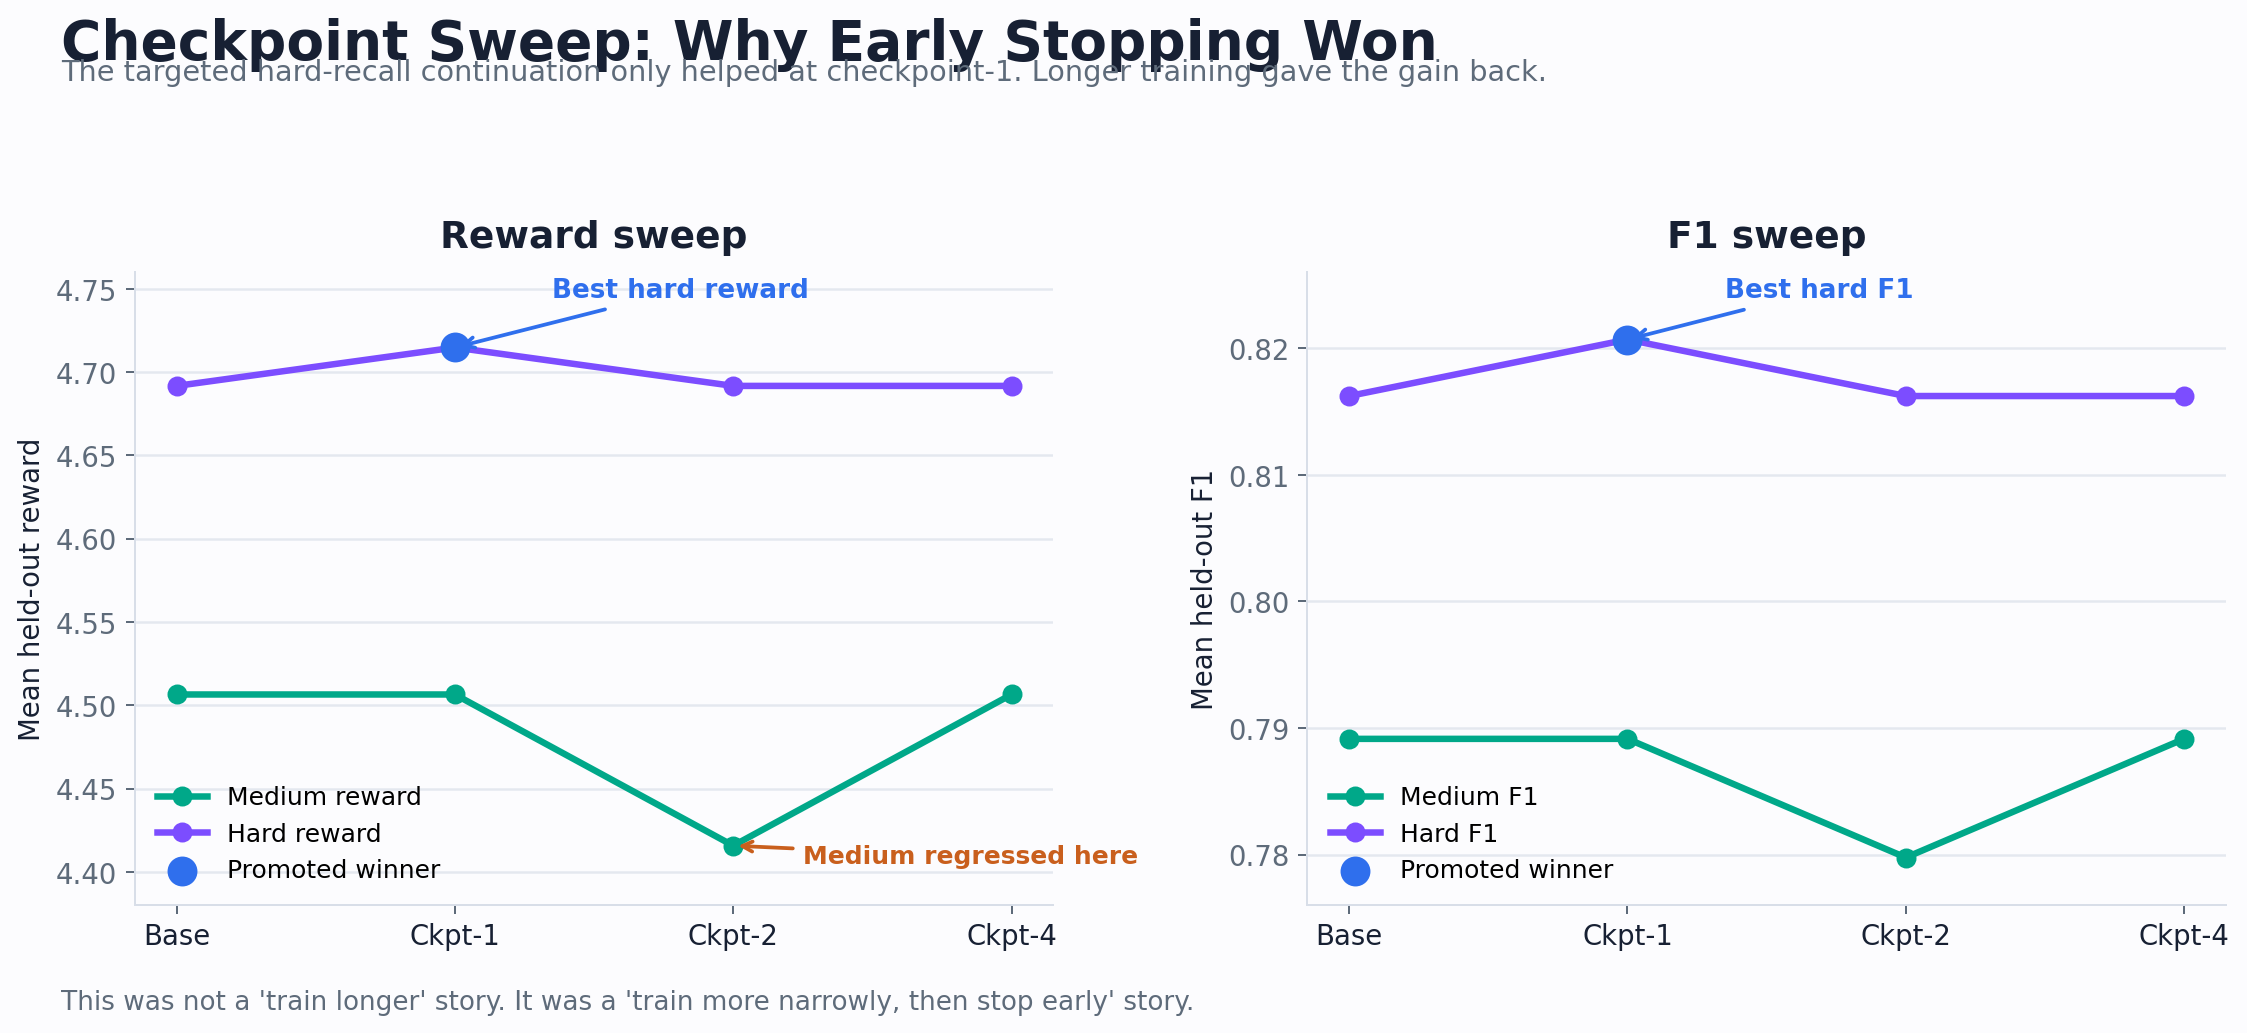
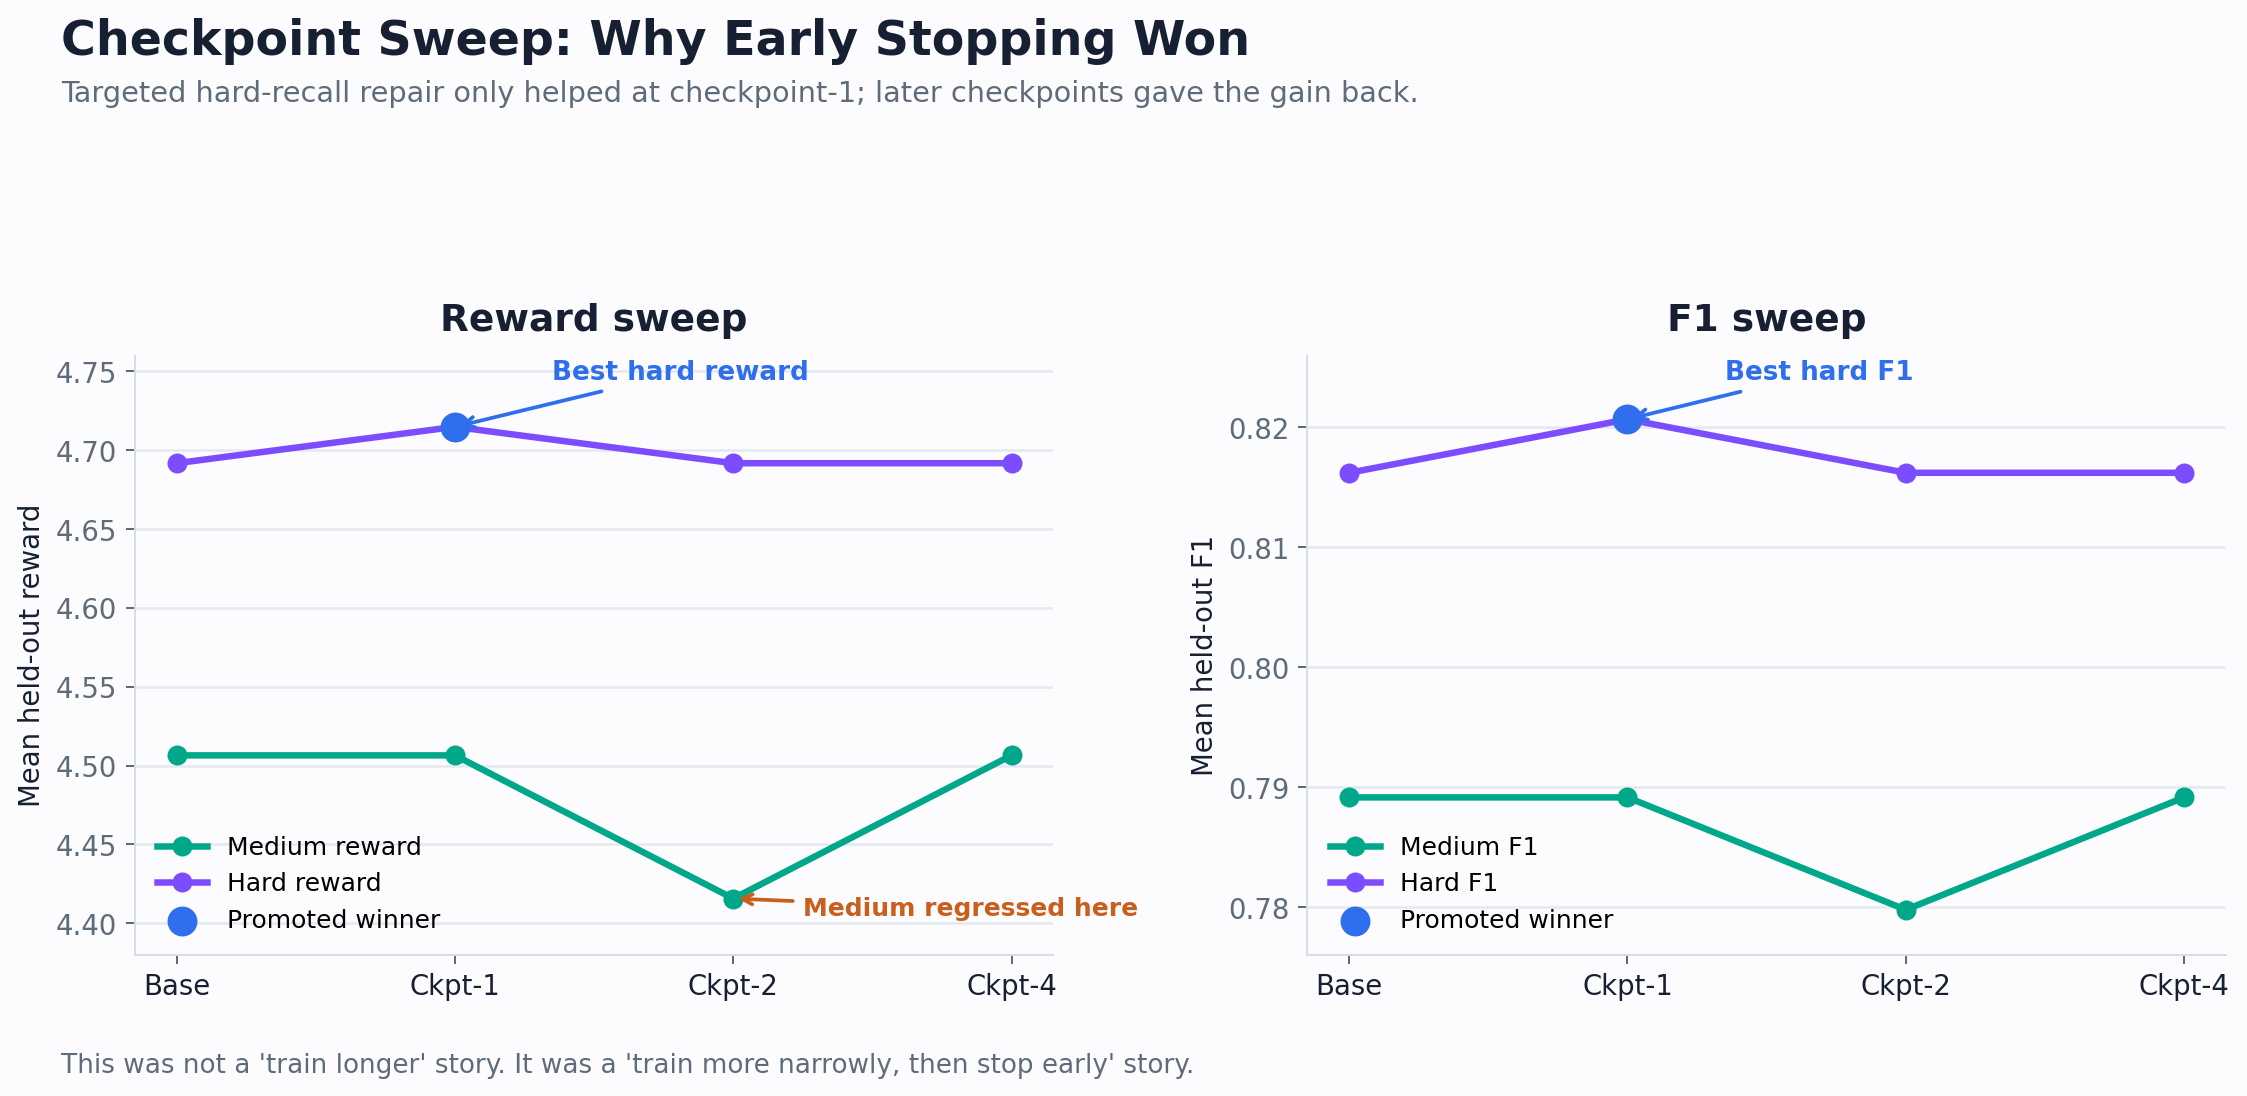
Fix submission graph title overlap

diff --git a/training/render_submission_graphs.py b/training/render_submission_graphs.py
@@ -50,18 +50,19 @@ def render_comparison(metrics: dict) -> None:
     f1_prev = [base["medium_f1"], base["hard_f1"]]
     f1_curr = [current["medium_f1"], current["hard_f1"]]
 
-    fig, axes = plt.subplots(1, 2, figsize=(13, 5.6), dpi=180, facecolor=BG)
+    fig, axes = plt.subplots(1, 2, figsize=(13, 6.0), dpi=180, facecolor=BG)
     fig.suptitle(
         "AtomicVision Final Model Comparison",
-        fontsize=22,
+        fontsize=20,
         fontweight="bold",
         color=TEXT,
         x=0.06,
         ha="left",
+        y=0.975,
     )
     fig.text(
         0.06,
-        0.92,
+        0.905,
         "Held-out strict evaluation on 32 medium and 32 hard episodes. Higher is better.",
         fontsize=11.5,
         color=MUTED,
@@ -121,7 +122,7 @@ def render_comparison(metrics: dict) -> None:
         fontsize=10.5,
         color=MUTED,
     )
-    fig.tight_layout(rect=[0.03, 0.06, 1.0, 0.89])
+    fig.tight_layout(rect=[0.03, 0.07, 1.0, 0.83])
     fig.savefig(COMPARISON_OUTPUT, bbox_inches="tight", facecolor=BG)
     plt.close(fig)
 
@@ -135,19 +136,20 @@ def render_sweep(metrics: dict) -> None:
     medium_f1 = [candidates[key]["medium_f1"] for key in order]
     hard_f1 = [candidates[key]["hard_f1"] for key in order]
 
-    fig, axes = plt.subplots(1, 2, figsize=(13, 5.8), dpi=180, facecolor=BG)
+    fig, axes = plt.subplots(1, 2, figsize=(13, 6.2), dpi=180, facecolor=BG)
     fig.suptitle(
         "Checkpoint Sweep: Why Early Stopping Won",
-        fontsize=22,
+        fontsize=19,
         fontweight="bold",
         color=TEXT,
         x=0.06,
         ha="left",
+        y=0.975,
     )
     fig.text(
         0.06,
-        0.92,
-        "The targeted hard-recall continuation only helped at checkpoint-1. Longer training gave the gain back.",
+        0.90,
+        "Targeted hard-recall repair only helped at checkpoint-1; later checkpoints gave the gain back.",
         fontsize=11.5,
         color=MUTED,
     )
@@ -211,7 +213,7 @@ def render_sweep(metrics: dict) -> None:
         fontsize=10.5,
         color=MUTED,
     )
-    fig.tight_layout(rect=[0.03, 0.06, 1.0, 0.89])
+    fig.tight_layout(rect=[0.03, 0.07, 1.0, 0.81])
     fig.savefig(SWEEP_OUTPUT, bbox_inches="tight", facecolor=BG)
     plt.close(fig)
 
